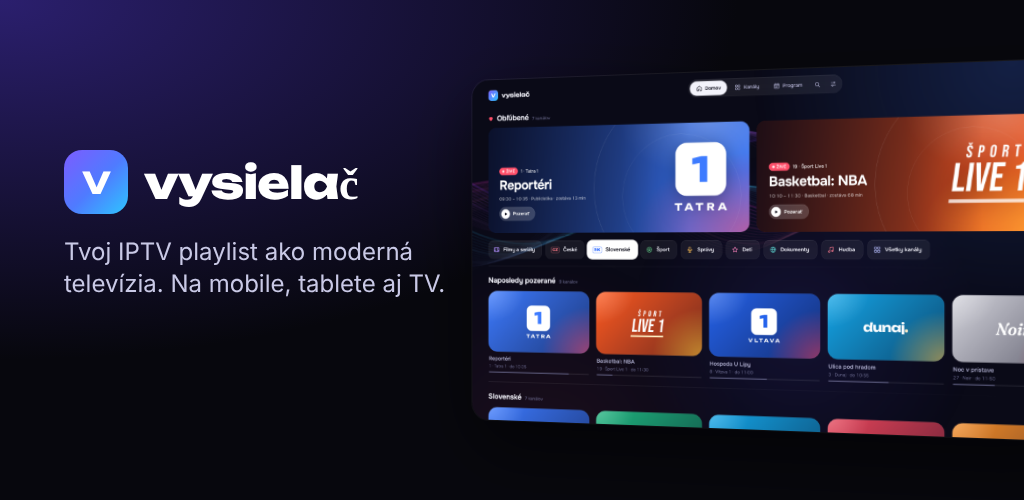
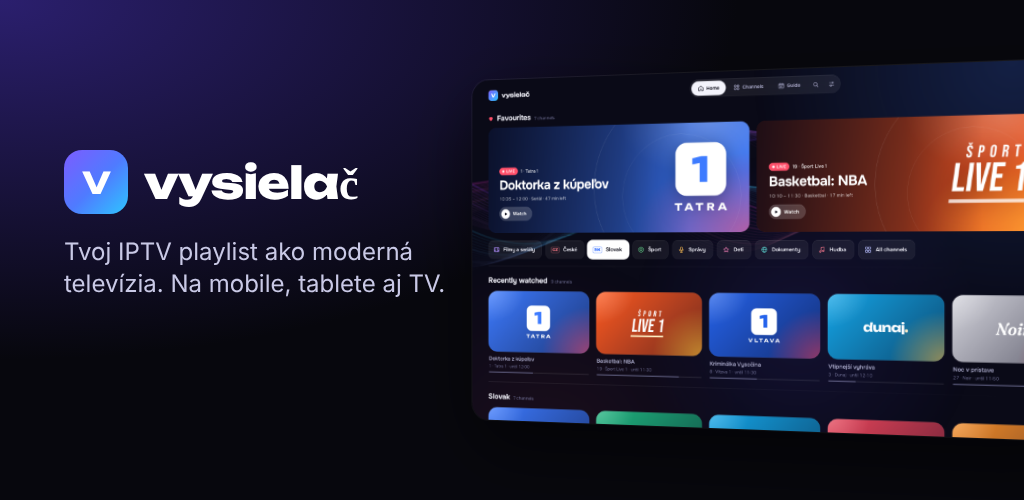
Hodnotenie v Google Play, tlačidlá len s ikonami, responzivita od 320 px po TV, nové obrázky do obchodu
Claude-Session: https://claude.ai/code/session_011oEtpuH24j2wQKf94Pb8CD

diff --git a/src/app.js b/src/app.js
@@ -135,7 +135,7 @@ const catIcon = s => s.icon === 'auto' ? `<span class="txt-ic">${esc(initials(s.
 const ACCENTS = { white: ['#FFFFFF', '#0A0A17'], amber: ['#F2B84B', '#1B1406'], coral: ['#FF7A59', '#1E0B05'], mint: ['#4FD1A5', '#04170F'], violet: ['#A08CFF', '#0F0A24'], ice: ['#7CC4FF', '#03121F'] };
 const PALETTE = ['#2F6BFF', '#E5394B', '#8B5CF6', '#16A34A', '#F59E0B', '#EC4899', '#0EA5A4', '#F97316'];
 const ICONS = ['auto', 'film', 'ball', 'news', 'kids', 'globe', 'note', 'cup', 'heart', 'sparkle'];
-const DEFAULT_SET = { look: 'classic', secRows: '2', tile: 'm', round: 'med', tilebg: 'tint', nums: 'off', caps: 'on', accent: 'white', hide: '5', lang: 'sk', subs: 'off', resume: 'off', backMini: 'off', pipAuto: 'on', afr: 'on', swipe: 'on', haptic: 'on', fsize: 'm', ui: isEn ? 'en' : 'sk' };
+const DEFAULT_SET = { look: 'classic', secRows: '2', tile: 'm', round: 'med', tilebg: 'tint', nums: 'off', caps: 'on', accent: 'white', hide: '5', lang: 'sk', subs: 'off', resume: 'off', backMini: 'off', pipAuto: 'on', afr: 'on', swipe: 'on', haptic: 'on', fsize: 'm', ui: isEn ? 'en' : 'sk', labels: 'on' };
 function defaultSections() {
   return [
     { id: 'recent', type: 'recent', name: 'Naposledy pozerané', color: '#94A3B8', icon: 'hist', show: true },
@@ -361,6 +361,7 @@ function applySettings() {
   if (s.round === 'circle') s.round = 'strong';
   if (!ACCENTS[s.accent]) s.accent = 'white';
   r.style.setProperty('--fz', { s: .9, m: 1, l: 1.12, xl: 1.25 }[s.fsize] || 1);
+  r.dataset.labels = s.labels || 'on';
   r.dataset.look = s.look; r.dataset.caps = s.caps; r.dataset.tile = s.tile; r.dataset.round = s.round; r.dataset.tilebg = s.tilebg; r.dataset.nums = s.nums;
   const [a, ai] = ACCENTS[s.accent] || ACCENTS.amber;
   r.style.setProperty('--accent', a); r.style.setProperty('--accent-ink', ai);
@@ -788,6 +789,7 @@ function renderSettings() {
       ${setRow('Pozadie kanálov', 'Skutočné logá z playlistu bývajú priehľadné PNG', seg('tilebg', [['tint', 'Farba kanála'], ['dark', 'Tmavé'], ['light', 'Svetlé']]))}
       ${setRow('Jazyk appky', 'Language', seg('ui', [['sk', 'Slovenčina'], ['en', 'English']]))}
       ${setRow('Veľkosť písma', 'Celá appka vrátane ovládania prehrávača', seg('fsize', [['s', 'Menšie'], ['m', 'Normálne'], ['l', 'Väčšie'], ['xl', 'Najväčšie']]))}
+      ${setRow('Popisy tlačidiel', 'Vypnuté: tlačidlá len s ikonami (Pozerať, Upraviť, akcie v prehrávači, spodné menu na mobile)', toggleBtn('labels', 'Popisy tlačidiel'))}
       ${setRow('Farba zvýraznenia', 'Rámik okolo vybranej položky', `<div class="swatches">${sw}</div>`)}
       ${setRow('Relácia pod kanálom', 'Názov a priebeh toho, čo práve beží', `<button class="toggle f ${S.set.caps === 'on' ? 'on' : ''}" data-act="set" data-k="caps" data-v="toggle" data-group="main" aria-label="Relácia pod kanálom"></button>`)}
       ${setRow('Čísla kanálov v rohu', '', `<button class="toggle f ${S.set.nums === 'on' ? 'on' : ''}" data-act="set" data-k="nums" data-v="toggle" data-group="main" aria-label="Čísla kanálov"></button>`)}
@@ -805,7 +807,8 @@ function renderSettings() {
     </div>
     <div class="set-group"><h3>Rodičovský zámok</h3><div id="lockRows">${lockRows()}</div></div>
     <div class="set-group"><h3>Ostatné</h3>
-      ${setRow('Sprievodca appkou', 'Prehliadka všetkých funkcií', `<button class="btn small-btn f" data-act="tour" data-group="main">Spustiť</button>`)}
+      ${Native && !IS_TV ? setRow('Ohodnotiť appku', 'V Google Play. Pomôže to ďalším ľuďom appku nájsť.', `<button class="btn small-btn f" data-act="rate" data-group="main">Ohodnotiť</button>`) : ''}
+    ${setRow('Sprievodca appkou', 'Prehliadka všetkých funkcií', `<button class="btn small-btn f" data-act="tour" data-group="main">Spustiť</button>`)}
     ${setRow('Ovládanie', 'Klávesy, diaľkový ovládač a gestá', `<button class="btn small-btn f" data-act="help" data-group="main">Zobraziť</button>`)}
       ${setRow('Obnoviť pôvodný stav', 'Vráti nastavenia, sekcie, obľúbené a históriu do pôvodného stavu. Playlisty ostanú.', `<button class="btn small-btn f" data-act="reset" data-group="main">Obnoviť</button>`)}
     </div>`;
@@ -1265,7 +1268,19 @@ function openPlayer(id, offset = 0) {
   tune(id, offset);
   cancelAnimationFrame(vid.raf); vid.last = 0; vid.raf = requestAnimationFrame(frame);
 }
+/**
+ * Asking for a rating: Google Play's own window, after real use (a few days, several sessions), at a calm moment
+ * (leaving the player), at most every 4 months. Google's rules forbid asking "do you like it?" first, so it does not.
+ */
+function maybeAskReview() {
+  if (!Native || IS_TV) return;
+  const r = store.get('review', { first: Date.now(), plays: 0, asked: 0 });
+  r.plays++;
+  if (r.plays >= 8 && Date.now() - r.first > 4 * 864e5 && Date.now() - r.asked > 120 * 864e5) { r.asked = Date.now(); setTimeout(() => Native.review().catch(() => {}), 800); }
+  store.set('review', r);
+}
 function closePlayer() {
+  maybeAskReview();
   if (M.on) endMulti();
   if (engine === E2) { engine.close(); E2.v.classList.remove('active'); engine = E1; E1.v.classList.add('active'); player.classList.remove('solo2'); applyVolume(); }
   if (P.mini) { P.mini = false; P.appFocus = null; setMiniUI(false); if (nav.cur && $('#miniBar').contains(nav.cur)) clearFocus(); }
@@ -2435,6 +2450,7 @@ function activate(el, e) {
     case 'p-list': openPanel('list'); break;
     case 'p-more': openPanel('more'); break;
     case 'tour': openTour(0); break;
+    case 'rate': Native.openStore().catch(() => {}); break;
     case 'tour-go': openTour(+el.dataset.v); break;
     case 'tour-pl': closeModal(true); openPlaylist(true); break;
     case 'tour-pair': closeModal(true); openPair(); break;

diff --git a/src/styles.css b/src/styles.css
@@ -959,3 +959,35 @@ html.native .pv { visibility: hidden !important; }
 .cm-next li { display: flex; gap: 12px; font-size: 14.5px; min-width: 0; }
 .cm-next time { color: var(--fg-3); font-variant-numeric: tabular-nums; flex: none; }
 .cm-next span { white-space: nowrap; overflow: hidden; text-overflow: ellipsis; }
+
+/* Setting "Button labels" off: icons only. The words stay for screen readers (font-size 0, not removed). */
+:root[data-labels="off"] .b-play { font-size: 0; gap: 0; padding: 0 7px; }
+:root[data-labels="off"] .btn:has(> .ic) { font-size: 0; gap: 0; padding-inline: 12px; min-width: 44px; justify-content: center; }
+:root[data-labels="off"] .btn:has(> .ic) .ic { margin: 0; }
+:root[data-labels="off"] .pp-act { width: 54px; padding: 12px 4px; }
+:root[data-labels="off"] .pp-act span { display: none; }
+@media (max-width: 760px) {
+  :root[data-labels="off"] .nav-item span, :root[data-labels="off"] .nav-item.icon-only span { display: none; }
+  :root[data-labels="off"] .nav-item { padding: 12px 4px; }
+}
+/* the smallest phones: six menu items must fit */
+@media (max-width: 380px) {
+  .nav-item, .nav-item.icon-only { flex: 1 1 0; min-width: 0; padding: 6px 2px; font-size: 10px; }
+  .nav-item span { max-width: 100%; overflow: hidden; text-overflow: ellipsis; white-space: nowrap; }
+}
+/* small phones: two channels per row, and the big cards keep the logo above the text */
+@media (max-width: 760px) {
+  :root { --card: min(160px, calc((100vw - var(--gl) - var(--gr) - var(--gap)) / 2 - 1px)); }
+}
+@media (max-width: 480px) {
+  .b-art { align-items: flex-start; padding: 18px 18px 0 0; }
+  .b-art .lg, .b-art .lg-img, .bcard.img .b-art .lg-img { max-width: 30%; max-height: 32%; }
+  .b-art .lg { font-size: 18px; }
+  .bcard .b-meta { white-space: normal; }
+}
+/* tablets upright and small laptops: the top menu shows the label only on the current screen */
+@media (min-width: 761px) and (max-width: 1100px) {
+  .nav-item:not(.active) span { display: none; }
+  .nav-item:not(.active) { padding-inline: 12px; }
+}
+@media (min-width: 481px) { .bcard .b-txt { max-width: 60%; } }

diff --git a/src/i18n-en.js b/src/i18n-en.js
@@ -172,7 +172,7 @@ export const EN = {
   'stlmiť, hlasitosť (PC)': 'mute, volume (PC)', 'celá obrazovka (PC)': 'full screen (PC)', 'D, modré': 'D, blue', 'štatistiky prehrávania': 'playback stats', 'P, červené': 'P, red', 'malé okienko a späť': 'mini player and back',
   'Podržať OK': 'Hold OK', 'ponuka kanála (aj pravé tlačidlo myši)': 'channel menu (or right mouse button)', 'Späť / Esc': 'Back / Esc', 'späť': 'back', 'prepnúť na číslo kanála': 'go to channel number',
   // review prompt
-  'Páči sa ti Vysielač?': 'Enjoying Vysielač?', 'Ohodnoť appku v Google Play. Pomôže to ďalším ľuďom ju nájsť.': 'Rate the app on Google Play. It helps others find it.', 'Ohodnotiť': 'Rate', 'Neskôr': 'Later', 'Už nepýtať': "Don't ask again",
+  'Ohodnotiť appku': 'Rate the app', 'V Google Play. Pomôže to ďalším ľuďom appku nájsť.': 'On Google Play. It helps others find the app.', 'Páči sa ti Vysielač?': 'Enjoying Vysielač?', 'Ohodnoť appku v Google Play. Pomôže to ďalším ľuďom ju nájsť.': 'Rate the app on Google Play. It helps others find it.', 'Ohodnotiť': 'Rate', 'Neskôr': 'Later', 'Už nepýtať': "Don't ask again",
   'Vysielač': 'Vysielač', 'vysielač': 'vysielač',
 };
 

diff --git a/android/app/src/main/java/sk/vysielac/app/LocalRelayPlugin.java b/android/app/src/main/java/sk/vysielac/app/LocalRelayPlugin.java
@@ -129,6 +129,32 @@ public class LocalRelayPlugin extends Plugin {
         call.resolve();
     }
 
+    /**
+     * Google Play's rating window. Google decides whether it actually appears (quota, installs not from Play);
+     * the app gets no answer about what the user chose, by design.
+     */
+    @PluginMethod
+    public void review(PluginCall call) {
+        com.google.android.play.core.review.ReviewManager m = com.google.android.play.core.review.ReviewManagerFactory.create(getContext());
+        m.requestReviewFlow().addOnCompleteListener(t -> {
+            if (!t.isSuccessful()) { call.reject("review unavailable"); return; }
+            m.launchReviewFlow(getActivity(), t.getResult()).addOnCompleteListener(x -> call.resolve());
+        });
+    }
+
+    /** The app's page in Google Play (from Settings → Rate the app). */
+    @PluginMethod
+    public void openStore(PluginCall call) {
+        String id = getContext().getPackageName();
+        android.content.Intent i = new android.content.Intent(android.content.Intent.ACTION_VIEW, android.net.Uri.parse("market://details?id=" + id));
+        i.addFlags(android.content.Intent.FLAG_ACTIVITY_NEW_TASK);
+        try { getContext().startActivity(i); }
+        catch (Exception e) {
+            getContext().startActivity(new android.content.Intent(android.content.Intent.ACTION_VIEW, android.net.Uri.parse("https://play.google.com/store/apps/details?id=" + id)).addFlags(android.content.Intent.FLAG_ACTIVITY_NEW_TASK));
+        }
+        call.resolve();
+    }
+
     /** Back on the home screen with nothing left to close: leave the app like any other. */
     @PluginMethod
     public void exit(PluginCall call) {

diff --git a/README.md b/README.md
@@ -61,6 +61,11 @@ alebo P ho vráti na celú obrazovku. Na PC ide z okienka spraviť aj okno nad o
 - **Časovač vypnutia:** 15 min až 2 h alebo do konca relácie, minútu pred koncom sa dá predĺžiť.
 - **Rodičovský zámok:** Nastavenia → Rodičovský zámok. PIN na celé kategórie alebo jednotlivé kanály (podržať OK na kanáli).
 - **Program po dňoch** (včera, dnes, zajtra…) a **hľadanie v celom programe** s pripomienkou alebo nahrávaním.
+- **Viac playlistov** sa spojí do jedného (kategórie s rovnakým názvom sa zlúčia). Playlist sa dá pridať aj **z mobilu cez QR kód**
+  (TV ukáže kód, mobil v tej istej Wi-Fi otvorí formulár).
+- **Prvé spustenie** je prázdne, so sprievodcom všetkými funkciami (Nastavenia → Sprievodca appkou). Ukážkové kanály: adresa `?demo`.
+- **Slovensky aj anglicky** (Nastavenia → Jazyk appky), veľkosť písma, tlačidlá len s ikonami, vibrácia pri dotyku.
+- **Náhľad programu:** podržanie kanála ukáže, čo beží (s popisom) a čo nasleduje. Pomer strán si appka pamätá pre kanál.
 - **Nastavenia prehrávača:** po spustení pokračovať naposledy pozeraným kanálom, Späť zmenší kanál do okienka.
 
 ## Ako je zabezpečené, aby to nesekalo
